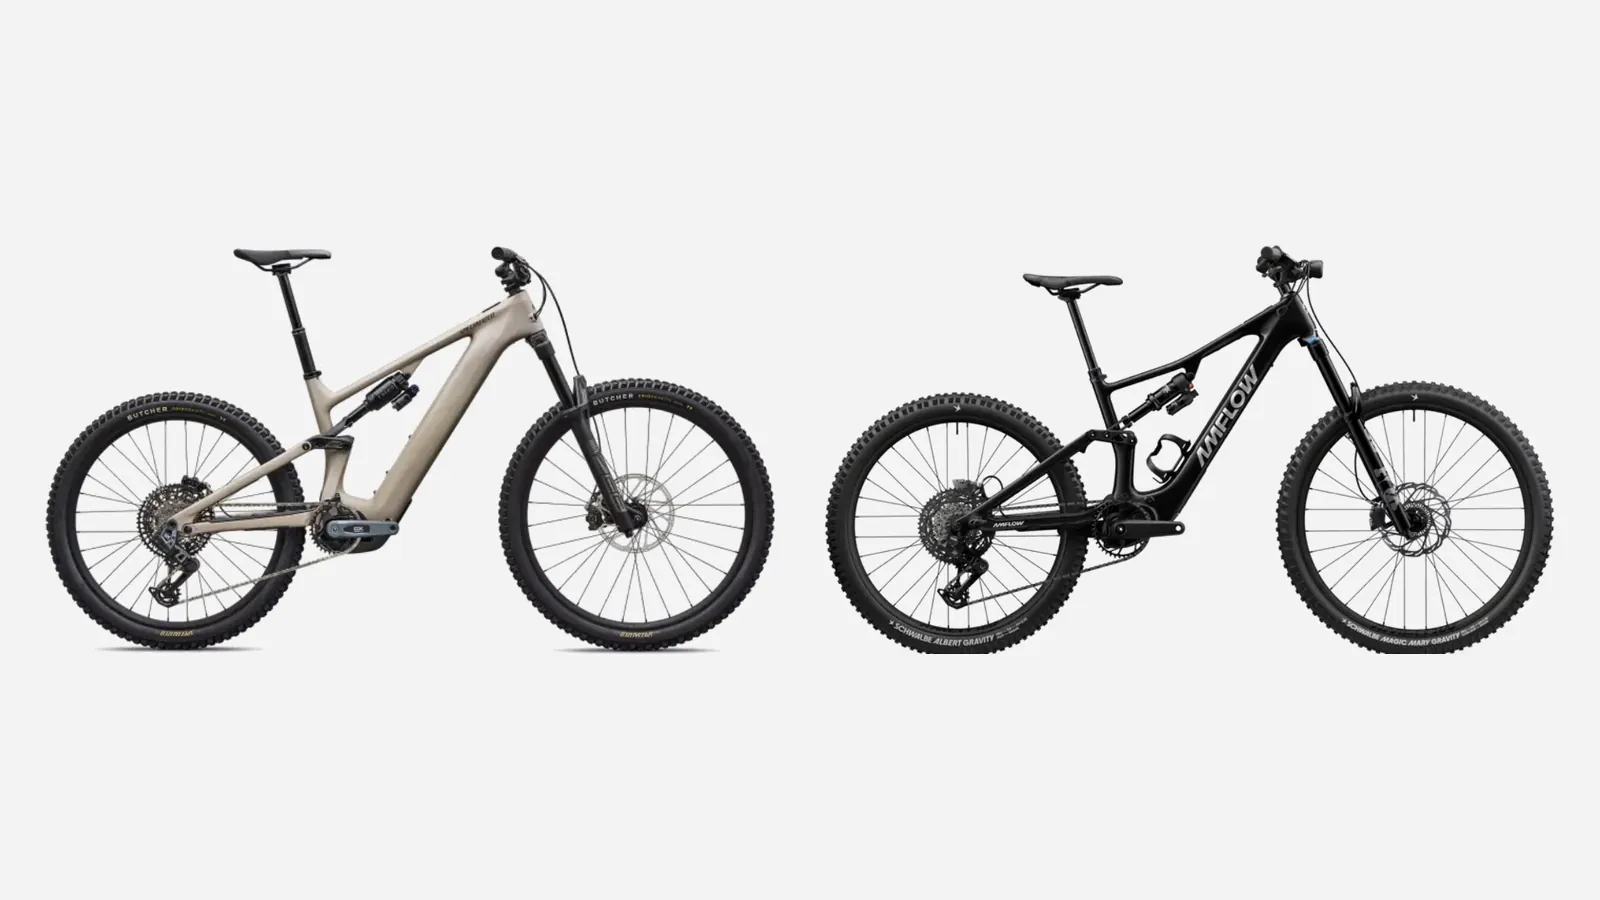
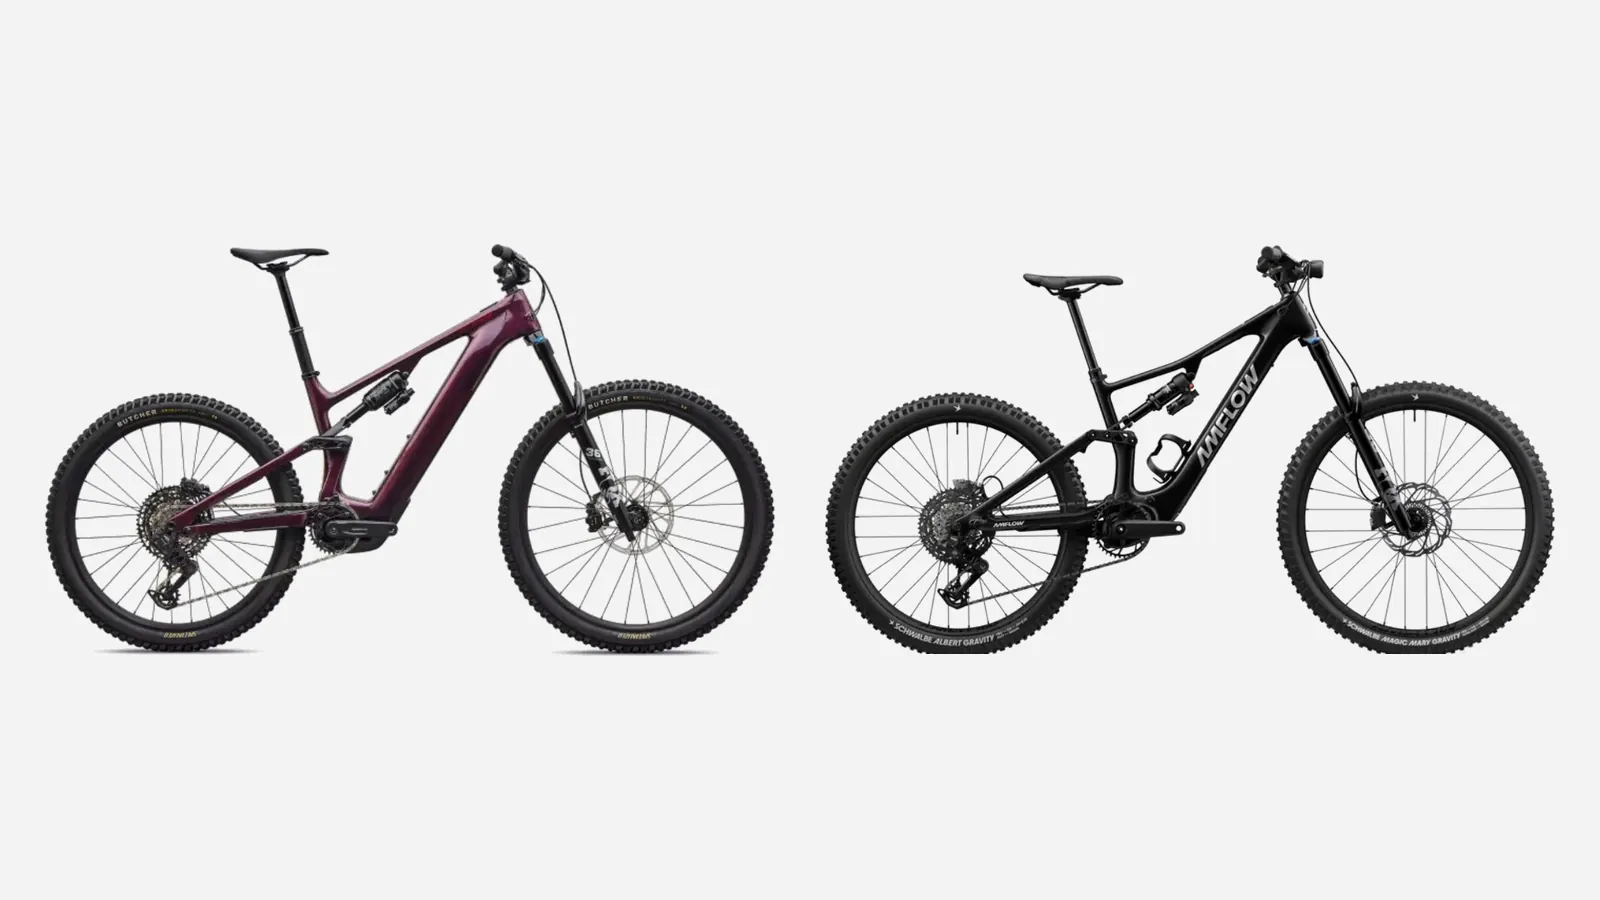
Levo 4 vs Amflow PX: use the Levo 4 Comp Carbon in the cover
Claude-Session: https://claude.ai/code/session_012nBX9arnGcA8nn1be6PAsX

diff --git a/content/posts/specialized-turbo-levo-4-vs-amflow-px-carbon.md b/content/posts/specialized-turbo-levo-4-vs-amflow-px-carbon.md
@@ -7,8 +7,8 @@ categories: ["E-Bike"]
 tags: ["Specialized Turbo Levo 4", "Amflow PX Carbon", "eMTB", "Avinox M2S", "E-Bike Comparison"]
 cover:
   image: "/images/specialized-turbo-levo-4-vs-amflow-px-carbon-cover.webp"
-  alt: "Specialized Turbo Levo 4 next to an Amflow PX Carbon e-mountain bike"
-  caption: "Turbo Levo 4 (left) and Amflow PX Carbon (right). Photos: Specialized, Amflow"
+  alt: "Specialized Turbo Levo 4 Comp Carbon next to an Amflow PX Carbon e-mountain bike"
+  caption: "Turbo Levo 4 Comp Carbon (left) and Amflow PX Carbon (right). Photos: Specialized, Amflow"
   relative: false
 draft: false
 ---
